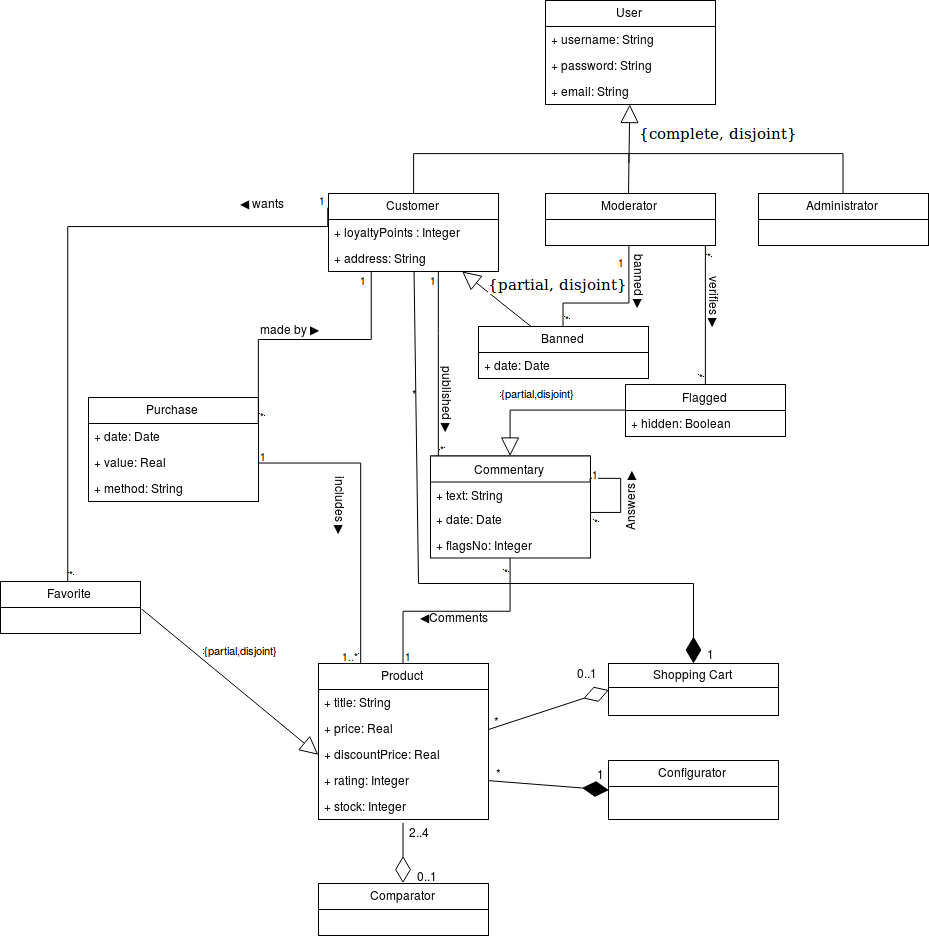
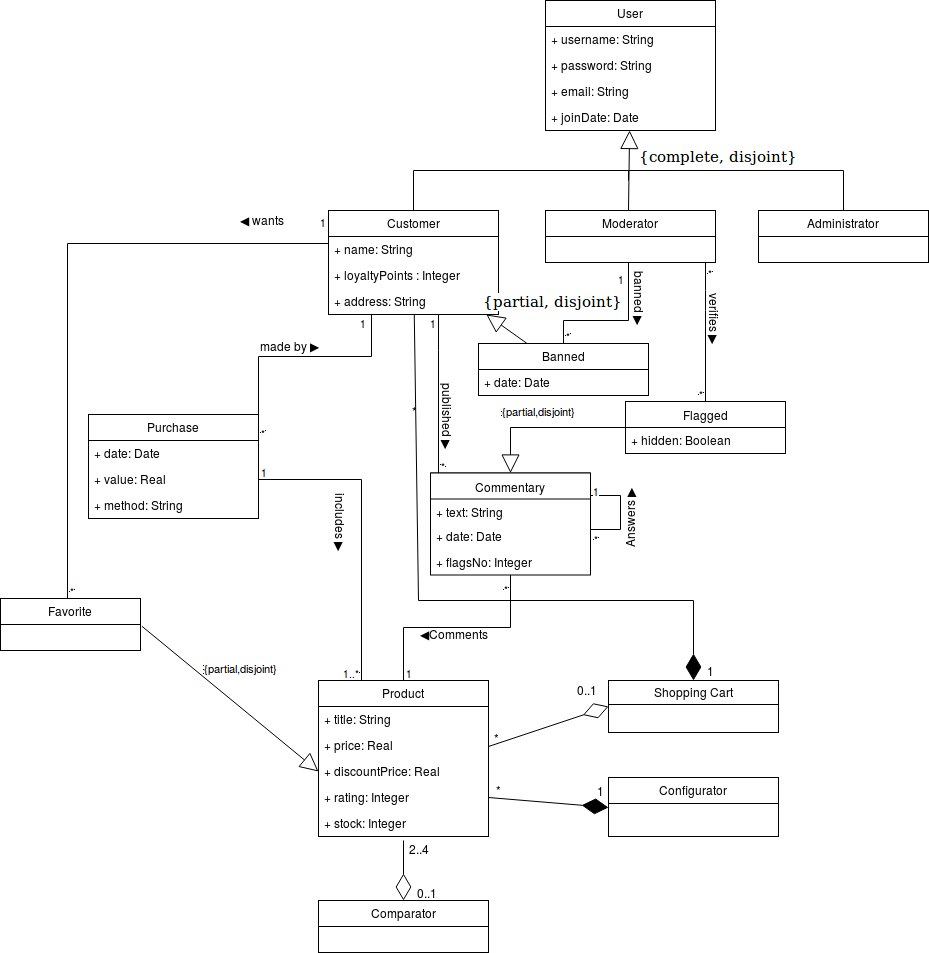
updated a4

diff --git a/A4/A4.md b/A4/A4.md
@@ -17,14 +17,47 @@ Besides the conceptual data model shown before, we have included some extra rule
 
 |Identifier	|Name	|Description|
 |:---------:|-----|-----------|
-|BR01|Consistency|A customer can only comment on a product he has previously bought.|
-|BR02|Loyalty |For each purchase the user gets 1 Loyalty Point.|
+|BR01|Consistency|A customer can only rate a product he has previously bought.|
+|BR02|Loyalty 1|For each purchase the user gets 1 Loyalty Point.|
 |BR03|Comment History|When a comment is deleted it should be replaced with a generic [DELETED] comment.|
+|BR04|Dates 1|A Banned date has to be later than the date of every Comment from that person.|
+|BR05|Price|A product price has to be bigger than 0.|
+|BR06|Email|An email from a user has to be unique.|
+|BR07|Username|An username has to be unique.|
+|BR08|Loyalty 2|A User has no less than 0 Loyalty Points.|
+|BR09|Dates 2|Every Comment from a User must be later than the date he joined the system.|
+|BR10|Dates 3|A purchase date has to be later than the date a User joined the system.|
+|BR11|Discount Price|A Product's discount price has to be bigger than 0 or NULL.|
+|BR12|User|No attribute of the User is null.|
+|BR13|Product Title|The title of a Product is unique.|
+|BR14|Stock|The stock of a Product is bigger than 0.|
+|BR15|Purchase Method|The method in a Purchase must be one of "Credit Card", "Debit Card" or "Paypal"|
+|BR16|Purchase Value|The purchase value must be bigger than 0.|
+|BR17|Times Flagged|The number of times a Comment was flagged (_flagsNo_) is no less than 0.|
+|BR18|Address|The address of a Customer can be NULL.|
 
 <!-- > Business rules can be included in the UML diagram as UML notes or in a table in this section. -->
  
 ## Revision history
  
+* Changed business rule BR01.
+* Added business rule BR04.
+* Added business rule BR05.
+* Added business rule BR06.
+* Added business rule BR07.
+* Added business rule BR08.
+* Added business rule BR09.
+* Added attribute to User.
+* Added business rule BR10.
+* Added business rule BR11.
+* Added business rule BR12.
+* Added business rule BR13.
+* Added business rule BR14.
+* Added business rule BR15.
+* Added business rule BR16.
+* Added business rule BR17.
+* Added business rule BR18.
+
 ***
  
 <br>
